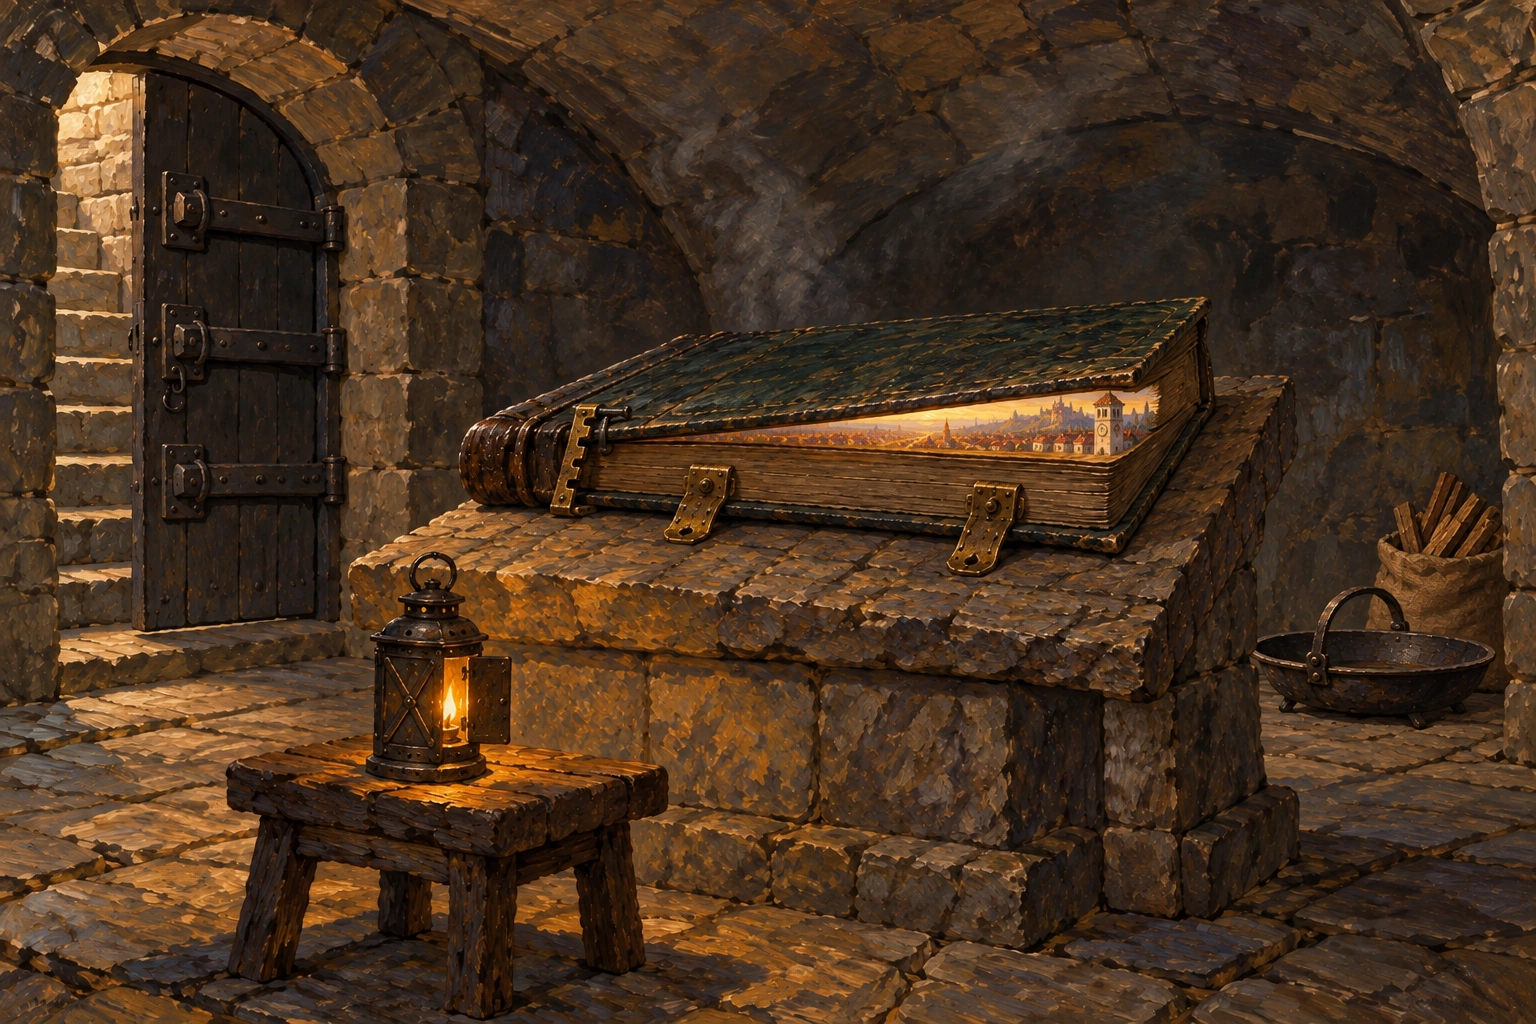
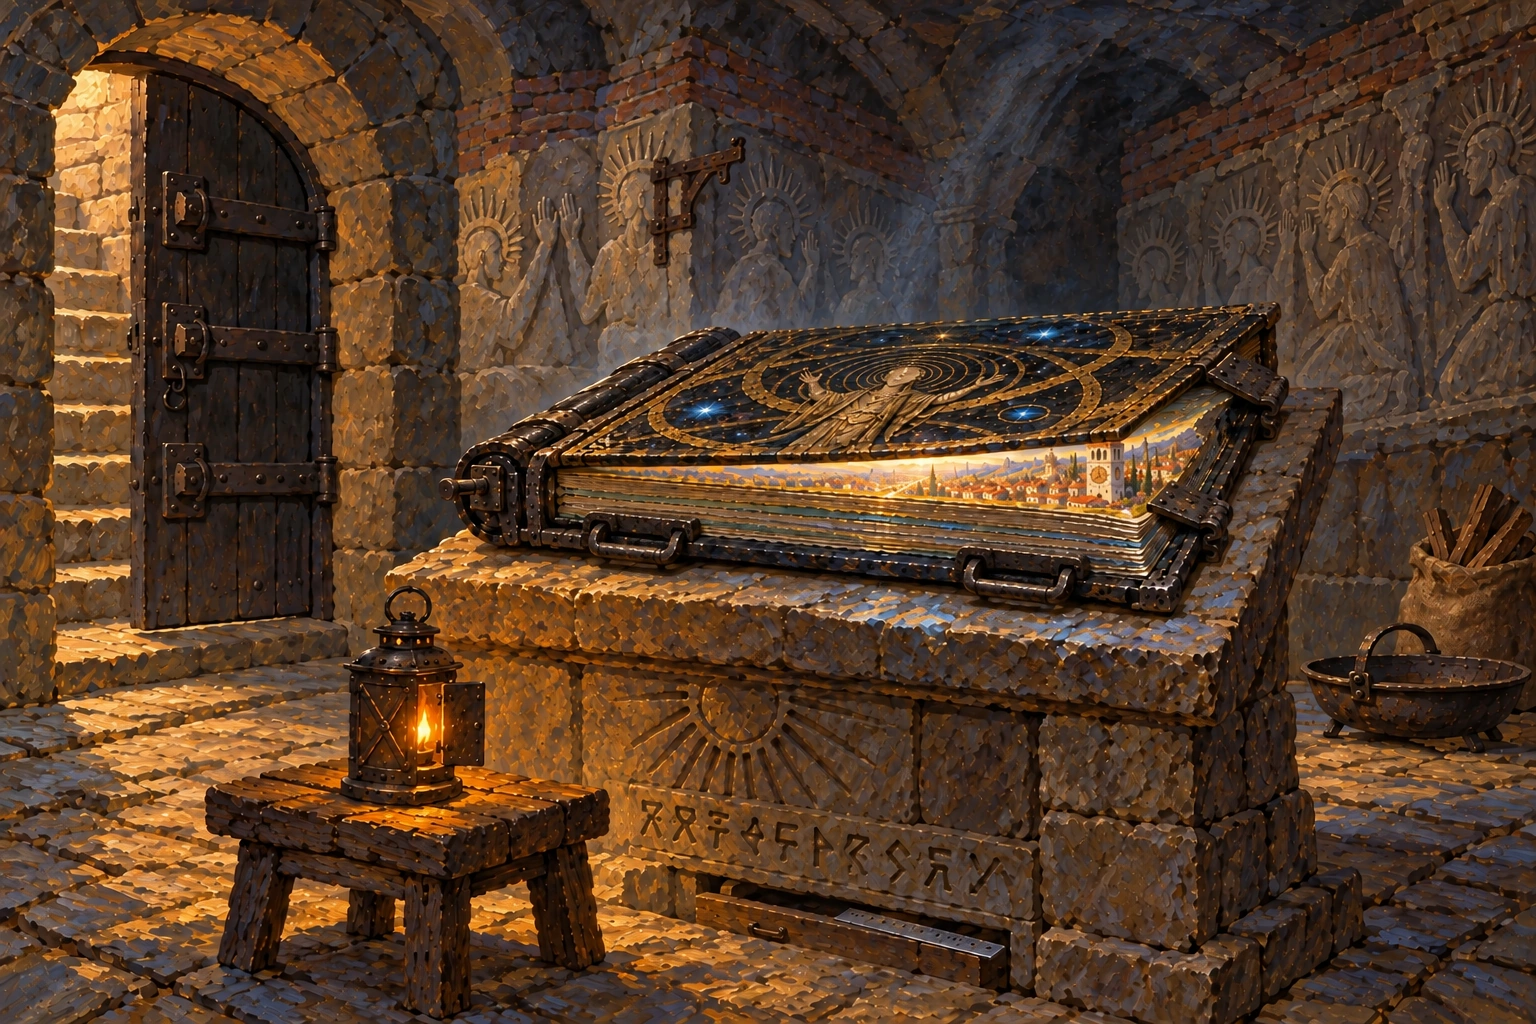
Rebuild the cosmic Book and its cover

diff --git a/stories/book-of-eternity/notes.md b/stories/book-of-eternity/notes.md
@@ -71,3 +71,9 @@ The writer replaced “One employment” with “One recorded use” and added, 
 The final round-robin located precise repairs rather than a new plot. The writer added a boot-sized nearest stair step, with lower steps narrowing into distance; Edris approaches from the distant street to arm's length, and her hand simply comes through the gap. “Tiny” becomes “distant,” preserving transformation only after touch. The plain coat shoulder now clearly lacks the officer's cord. Codex narrowed its negotiation concern to the declarative “It goes before the council with her.” The writer's “Take us both before the council” makes Pellan choose the route; existing resistance, crash, surrender, rereading, and acknowledged risk remain. Claude withdrew the arbitrary shortening request and accepted that the crash and spoken fire plea already supply urgency. Both final readers checked the complete repaired text and found their material effects resolved; Codex's initial concern about bodily clearance also resolves because only hand and elbow emerge before the interrupted transformation. Claude retains minor tastes about “little street” and a coat-word echo. The coordinator declines further polish: neither changes belief or fulfillment. No structural rewrite followed these local repairs.
 
 **Coordinator final prose judgment:** The artifact now preserves living hours and extinct celestial light beyond any royal claim. Its nature defeats Ysabet's proposed partial destruction, exposes older people's need to be heard, acts on her body during the exchange, and remains visible in the final surrender. The human stakes therefore express the revised Book's significance. The original destruction/locks question remains answered in action. Object states, timeline, contact threshold, living magical source, distinct title/names, and cost of custody were rechecked. No new shared canon is asserted. The specific earlier ordinary-book failure is repaired in prose before new art.
+
+**Revised final Decisions:** Yes; native confidence **0.98**; P(Yes) **0.99**, P(No) **0.01**; source ambiguity **0.0**; action **proceed**; restarts **0**. The complete final prose, complete prompt with later directions, and supplied original were evaluated after the final discussion and repairs. Raw artifacts remain in `tmp/book-of-eternity/cosmic-revision/final-0/`. New art begins only after this result.
+
+**Rebuilt art and final rating:** The finished prose determined a dedicated Book reference, the newly witnessed Year-Star city, and a replacement shrine/chamber painting. The four existing character sheets and Harrowick painting were inspected and remain consistent with the revised text. The supplied rejected candidate guided the recognizable codex silhouette while its ordinary materials were replaced. New art uses the built-in image tool and the collection's inspected oil references. The Book has star-depth black covers, eroded gold circles and a damaged sacred figure beneath seven halos; the later iron cradle distinguishes mortal custody from its ancient substance. The Year-Star city shows living people raising unreadable boards, white terraces, blue lamps, and the haloed blue star. The chamber now exposes the shrine beneath later palace masonry. All accepted reference pixels were inspected before cover generation; opening angle and duplicated clasp fittings were corrected.
+
+The recreated cover uses the accepted Book, chamber, Ysabet, Orrel, and Harrowick references. A duplicated city view and overly broad cutaway were repaired with the image tool; the final cover shows one city and an intact leaf block. Title spelling, figure identity and clothing, two exterior characters, two fore-edge clasps, carrying handles, shrine setting, celestial motif, and containment were visually checked. The native portrait was exported to the required **864×1536 JPEG**; new references are **1536×1024 WebP**. Export changes only format/resolution, adding no visual content. Accepted images replace the relevant package assets; rejected candidates and the complete generation/edit prompts stay under `tmp/book-of-eternity/cosmic-revision/`. The supplied original remains preserved. The final prose and cover were reassessed together as **Teen** for the existing coercive exchange and non-graphic peril; sacred/cosmic imagery adds no stronger material. The package remains `canon: false` and the existing draft PR is updated, never merged.

diff --git a/stories/book-of-eternity/ratings.md b/stories/book-of-eternity/ratings.md
@@ -2,4 +2,4 @@
 
 - **Rating:** Teen
 - **Content notes:** Prolonged magical imprisonment; past civilian deaths and bereavement; an attempted forced exchange of captives; brief, non-graphic bodily transformation and physical struggle; threatened burning; arrest.
-- **Reason:** The sustained peril and the on-page attempt to pull a person into an eternal prison, with her arm flattening into written strokes, are unsettling enough for Teen. Injury and death are non-graphic. The cover depicts the discovery without violence or additional intense material. This rating reviews the finished prose and selected cover together.
+- **Reason:** The sustained peril and the on-page attempt to pull a person into an eternal prison, with her arm flattening into written strokes, are unsettling enough for Teen. Injury and death are non-graphic. The revised cover depicts the ancient celestial Book and its discovery without violence or additional intense material. Reassessed on 2026-10-26 after the cosmic prose revision and final cover were completed and inspected; this rating reviews them together.
